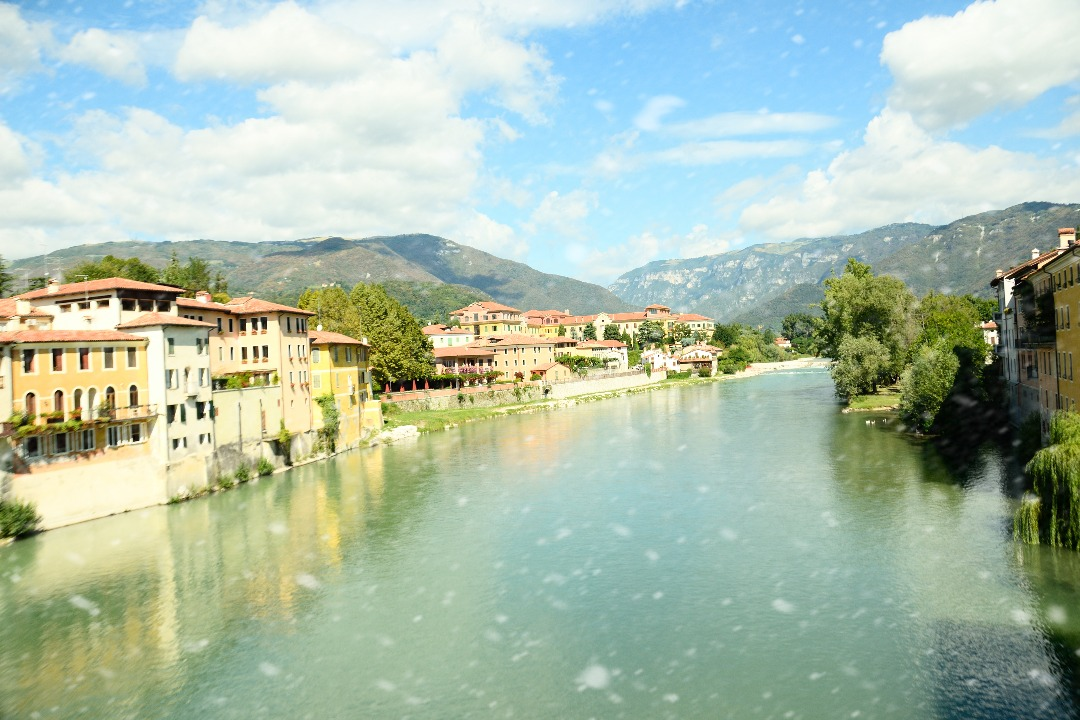
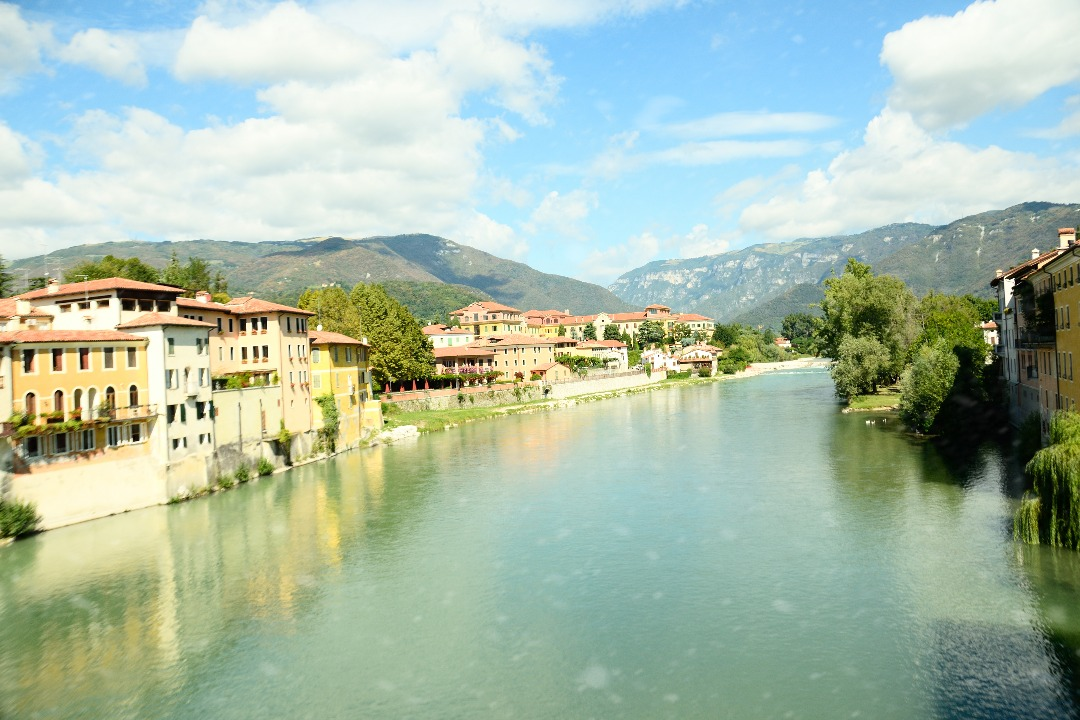
Update project page: remove citation/highlights, add comparison strips, improve snow
- Remove Citation, Highlights, and Pattern Recognition sections
- Improve snow restoration quality
- Add method comparison strips (Input/AirNet/PromptIR/MoCE-IR/Ours/GT)
- Switch to Nerfies-style dark pill buttons
- Update footer to credit Nerfies template

diff --git a/index.html b/index.html
@@ -22,15 +22,14 @@
         .authors a{color:#8ec5fc;text-decoration:none}
         .authors a:hover{text-decoration:underline}
         .authors sup{font-size:.7em}
-        .affiliations{font-size:.82em;color:#94b8d4;margin-bottom:20px;line-height:1.6}
-        .venue{font-size:.95em;color:#f0c040;font-weight:600;margin-bottom:24px}
+        .affiliations{font-size:.82em;color:#94b8d4;margin-bottom:28px;line-height:1.6}
         .hero-buttons{display:flex;gap:14px;justify-content:center;flex-wrap:wrap}
-        .btn{display:inline-flex;align-items:center;gap:8px;padding:10px 22px;border-radius:6px;font-size:.92em;font-weight:600;text-decoration:none;transition:all .2s}
-        .btn-primary{background:var(--accent);color:#fff}
-        .btn-primary:hover{background:var(--accent-dark);transform:translateY(-1px)}
-        .btn-outline{background:rgba(255,255,255,.1);color:#fff;border:1.5px solid rgba(255,255,255,.3)}
-        .btn-outline:hover{background:rgba(255,255,255,.2);transform:translateY(-1px)}
-        .btn-disabled{background:rgba(255,255,255,.05);color:rgba(255,255,255,.4);border:1.5px solid rgba(255,255,255,.15);cursor:default;pointer-events:none}
+
+        /* Nerfies-style dark pill buttons */
+        .btn-pill{display:inline-flex;align-items:center;gap:8px;padding:10px 24px;border-radius:50px;font-size:.92em;font-weight:600;text-decoration:none;transition:all .25s;background:#363636;color:#fff;border:none;cursor:pointer}
+        .btn-pill:hover{background:#4a4a4a;transform:translateY(-1px)}
+        .btn-pill.disabled{opacity:.45;cursor:default;pointer-events:none}
+        .btn-pill i{font-size:1.1em}
 
         /* Sections */
         section{padding:40px 0}
@@ -38,12 +37,6 @@
 
         /* Abstract */
         .abstract-text{background:var(--card-bg);border-left:4px solid var(--accent);padding:20px 24px;border-radius:0 8px 8px 0;font-size:.95em;box-shadow:0 2px 8px rgba(0,0,0,.06)}
-
-        /* Highlights */
-        .highlights{display:grid;grid-template-columns:repeat(2,1fr);gap:16px;margin-top:16px}
-        .highlight-card{background:var(--card-bg);border-radius:8px;padding:18px 20px;box-shadow:0 2px 8px rgba(0,0,0,.06);border-top:3px solid var(--accent)}
-        .highlight-card .icon{font-size:1.4em;margin-bottom:8px}
-        .highlight-card p{font-size:.88em;color:var(--text-light)}
 
         /* Framework figure */
         .framework-fig{text-align:center;margin:20px 0}
@@ -69,10 +62,11 @@
         .slider-label.left{left:10px}
         .slider-label.right{right:10px}
 
-        /* Citation */
-        .bibtex-block{background:#1e1e1e;color:#d4d4d4;padding:20px 24px;border-radius:8px;font-family:"Courier New",monospace;font-size:.82em;line-height:1.6;overflow-x:auto;position:relative}
-        .copy-btn{position:absolute;top:10px;right:10px;background:#444;color:#fff;border:none;padding:5px 12px;border-radius:4px;cursor:pointer;font-size:.8em}
-        .copy-btn:hover{background:#666}
+        /* Comparison strips */
+        .compare-section{margin-top:32px}
+        .compare-section h3{font-size:1.1em;color:var(--primary);margin-bottom:16px;font-weight:600}
+        .compare-strip{width:100%;border-radius:8px;box-shadow:0 4px 16px rgba(0,0,0,.1);margin-bottom:20px}
+        .compare-strip img{width:100%;display:block;border-radius:8px}
 
         /* Footer */
         footer{text-align:center;padding:30px 0;color:var(--text-light);font-size:.82em;border-top:1px solid var(--border)}
@@ -80,7 +74,6 @@
 
         @media(max-width:640px){
             .hero h1{font-size:1.5em}
-            .highlights{grid-template-columns:1fr}
             .hero-buttons{flex-direction:column;align-items:center}
         }
     </style>
@@ -107,10 +100,9 @@
             <sup>6</sup>FJNU &nbsp;&nbsp;
             <sup>*</sup>Corresponding author
         </p>
-        <p class="venue">Pattern Recognition</p>
         <div class="hero-buttons">
-            <span class="btn btn-disabled"><i class="fa-solid fa-file-pdf"></i> Paper (coming soon)</span>
-            <a href="https://github.com/sxvvv/f2net" class="btn btn-outline"><i class="fa-brands fa-github"></i> Code</a>
+            <span class="btn-pill disabled"><i class="fa-solid fa-file-pdf"></i> Paper</span>
+            <a href="https://github.com/sxvvv/f2net" class="btn-pill"><i class="fa-brands fa-github"></i> Code</a>
         </div>
     </div>
 </header>
@@ -121,19 +113,6 @@
         <h2>Abstract</h2>
         <div class="abstract-text">
             Composite image degradations, where rain, haze, low-light, and snow overlap spatially within a single frame, pose a fundamental challenge for unified restoration models. We identify two failure modes on such inputs. First, deterministic flow transport averages over feasible solutions, collapsing to over-smoothed predictions. Second, image-level expert routing yields a selectivity ratio of only 1.2&times;, assigning near-uniform capacity and under-specializing on localized distortions. Building upon these observations, we propose a <strong>Factorized Flow-Driven Network (F<sup>2</sup>D-Net)</strong>, a stochastic transport framework that factorizes the restoration velocity field into a shared backbone and degradation-specific expert increments assembled at every pixel via learned spatial gating. The core mechanism is a state-dependent multiplicative noise whose magnitude scales with the local residual to the clean target: large far from the solution to explore diverse reconstructions, vanishing upon convergence to preserve fine details. This formulation admits closed-form log-normal transitions, enabling single-step inference at feed-forward speed. On CDD-11, F<sup>2</sup>D-Net achieves the best structural and perceptual quality across all complexity tiers with 10.3&times; expert selectivity, and remains competitive on standard three-task and five-task all-in-one benchmarks.
-        </div>
-    </div>
-</section>
-
-<!-- Highlights -->
-<section style="padding-top:0">
-    <div class="container">
-        <h2>Highlights</h2>
-        <div class="highlights">
-            <div class="highlight-card"><div class="icon">&#128269;</div><p><strong>Failure Mode Analysis.</strong> Two failure modes of existing all-in-one restoration on composite degradations are identified: velocity averaging and under-specialized routing.</p></div>
-            <div class="highlight-card"><div class="icon">&#9881;&#65039;</div><p><strong>Factorized Velocity Field.</strong> A spatially gated mixture-of-experts decomposes the restoration flow into shared and degradation-specific components.</p></div>
-            <div class="highlight-card"><div class="icon">&#9889;</div><p><strong>Single-Step Inference.</strong> State-dependent multiplicative noise admits closed-form log-normal transitions for feed-forward-speed sampling.</p></div>
-            <div class="highlight-card"><div class="icon">&#127942;</div><p><strong>State-of-the-Art Quality.</strong> Best structural and perceptual quality on CDD-11 with 10.3&times; expert selectivity.</p></div>
         </div>
     </div>
 </section>
@@ -209,44 +188,25 @@
             </div>
 
         </div>
-    </div>
-</section>
 
-<!-- Citation -->
-<section>
-    <div class="container">
-        <h2>Citation</h2>
-        <div class="bibtex-block">
-            <button class="copy-btn" onclick="copyBib()"><i class="fa-regular fa-copy"></i> Copy</button>
-<pre>@article{su2025f2dnet,
-  title={Factorized Stochastic Transport for Composite
-         Degradation Image Restoration},
-  author={Su, Xin and Chao, Jianshu and Shen, Huifang
-          and Chen, Anqi and Gao, Yuting},
-  journal={Pattern Recognition},
-  year={2025}
-}</pre>
+        <!-- Method Comparison Strips -->
+        <div class="compare-section">
+            <h3>Method Comparisons on CDD-11</h3>
+            <div class="compare-strip"><img src="static/demo/snow_compare.jpg" alt="Snow comparison: Input / AirNet / PromptIR / MoCE-IR / Ours / GT"></div>
+            <div class="compare-strip"><img src="static/demo/low_haze_compare.jpg" alt="Low-light+Haze comparison"></div>
+            <div class="compare-strip"><img src="static/demo/haze_snow_compare.jpg" alt="Haze+Snow comparison"></div>
+            <div class="compare-strip"><img src="static/demo/low_haze_rain_compare.jpg" alt="Low-light+Haze+Rain comparison"></div>
         </div>
     </div>
 </section>
 
 <footer>
     <div class="container">
-        <p>F<sup>2</sup>D-Net &copy; 2025 &middot; <a href="https://github.com/sxvvv/f2net">GitHub</a></p>
-        <p style="margin-top:4px">Template inspired by <a href="https://nerfies.github.io/">Nerfies</a></p>
+        <p>This website is borrowed from <a href="https://github.com/nerfies/nerfies.github.io">Nerfies</a>.</p>
     </div>
 </footer>
 
 <script>
-function copyBib(){
-    var b=document.querySelector(".bibtex-block pre").textContent;
-    navigator.clipboard.writeText(b).then(function(){
-        var t=document.querySelector(".copy-btn");
-        t.innerHTML="Copied!";
-        setTimeout(function(){t.innerHTML='<i class="fa-regular fa-copy"></i> Copy'},2e3);
-    });
-}
-
 // ── Before/After Slider ──
 document.querySelectorAll(".comparison-slider").forEach(function(el){
     var before=el.dataset.before, after=el.dataset.after;
@@ -261,7 +221,6 @@ document.querySelectorAll(".comparison-slider").forEach(function(el){
     function setPos(x){
         var rect=el.getBoundingClientRect();
         var pct=Math.max(0,Math.min(1,(x-rect.left)/rect.width));
-        // after image is full, before image clips from pct to right
         imgBefore.style.clipPath="inset(0 0 0 "+pct*100+"%)";
         handle.style.left=pct*100+"%";
     }
